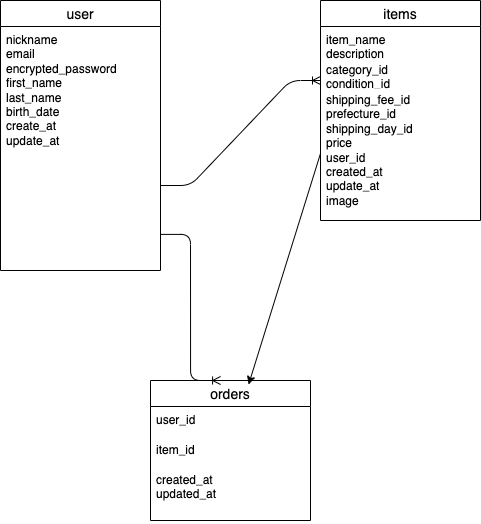
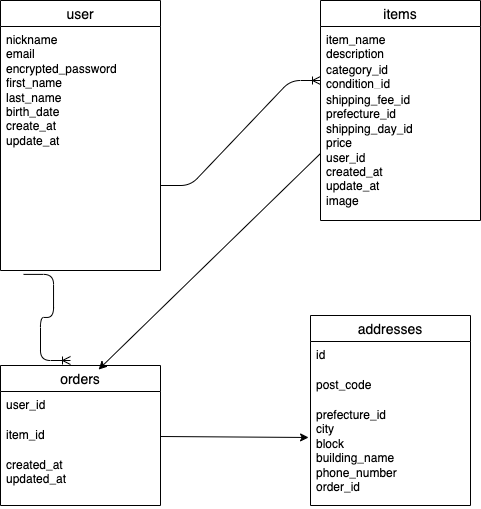
3rdcommit

diff --git a/app/controllers/application_controller.rb b/app/controllers/application_controller.rb
@@ -1,11 +1,23 @@
 class ApplicationController < ActionController::Base
-  before_action :basic_auth
+  # 開発環境とテスト環境でのみBasic認証を有効にする場合
+  # production環境でもBasic認証が必要なら if Rails.env.production? に変更
+  before_action :basic_auth if Rails.env.development? || Rails.env.test?
 
   private
 
   def basic_auth
     authenticate_or_request_with_http_basic do |username, password|
-      username == 'shiori' && password == '1234'
+      # 環境変数からユーザー名とパスワードを取得
+      username == ENV['BASIC_AUTH_USER'] && password == ENV['BASIC_AUTH_PASSWORD']
     end
+  end
+
+  # Deviseのログイン・ログアウト後のリダイレクト先 (既存のものであれば変更不要)
+  def after_sign_in_path_for(resource)
+    root_path
+  end
+
+  def after_sign_out_path_for(resource)
+    root_path
   end
 end

diff --git a/README.md b/README.md
@@ -2,69 +2,57 @@
 
 ## 概要
 フリマアプリの主要機能であるユーザー管理、商品出品、商品購入をサポートするためのデータベース設計を記述します。
+配送先情報を管理する`addresses`テーブルを追加しました。
+
+## ER図
 
 ## テーブル定義
 
 ### users テーブル
 
-| カラム名            | 型          | 制約                                 |
-| :------------------ | :---------- | :----------------------------------- |
-| `id`                | `BIGINT`    | `PRIMARY KEY`, `NOT NULL`, `AUTO_INCREMENT` |
-| `nickname`          | `VARCHAR(255)` | `NOT NULL`                           |
-| `email`             | `VARCHAR(255)` | `NOT NULL`, `UNIQUE`                 |
-| `encrypted_password` | `VARCHAR(255)` | `NOT NULL`                           |
-| `first_name`        | `VARCHAR(255)` | `NOT NULL`                           |
-| `last_name`         | `VARCHAR(255)` | `NOT NULL`                           |
-| `first_name_kana`   | `VARCHAR(255)` | `NOT NULL`                           |
-| `last_name_kana`    | `VARCHAR(255)` | `NOT NULL`                           |
-| `birth_date`        | `DATE`      | `NOT NULL`                           |
-| `created_at`        | `DATETIME`  | `NOT NULL`                           |
-| `updated_at`        | `DATETIME`  | `NOT NULL`                           |
+| カラム名            | 型       | 制約           |
+| :------------------ | :------- | :------------- |
+| `nickname`          | `string` | `null: false`  |
+| `email`             | `string` | `null: false`, `unique: true` |
+| `encrypted_password` | `string` | `null: false`  |
+| `first_name`        | `string` | `null: false`  |
+| `last_name`         | `string` | `null: false`  |
+| `first_name_kana`   | `string` | `null: false`  |
+| `last_name_kana`    | `string` | `null: false`  |
+| `birth_date`        | `date`   | `null: false`  |
 
 ### items テーブル
 
-| カラム名          | 型          | 制約                                 |
-| :---------------- | :---------- | :----------------------------------- |
-| `id`              | `BIGINT`    | `PRIMARY KEY`, `NOT NULL`, `AUTO_INCREMENT` |
-| `item_name`       | `VARCHAR(255)` | `NOT NULL`                           |
-| `description`     | `TEXT`      | `NOT NULL`                           |
-| `category_id`     | `INTEGER`   | `NOT NULL`, `FOREIGN KEY`            |
-| `condition_id`    | `INTEGER`   | `NOT NULL`, `FOREIGN KEY`            |
-| `shipping_fee_id` | `INTEGER`   | `NOT NULL`, `FOREIGN KEY`            |
-| `prefecture_id`   | `INTEGER`   | `NOT NULL`, `FOREIGN KEY`            |
-| `shipping_day_id` | `INTEGER`   | `NOT NULL`, `FOREIGN KEY`            |
-| `price`           | `INTEGER`   | `NOT NULL`, `>300, <9,999,999`      |
-| `user_id`         | `BIGINT`    | `NOT NULL`, `FOREIGN KEY`            |
-| `created_at`      | `DATETIME`  | `NOT NULL`                           |
-| `updated_at`      | `DATETIME`  | `NOT NULL`                           |
-| `image`           | (Active Storageで管理) |                              |
+| カラム名          | 型       | 制約           |
+| :---------------- | :------- | :------------- |
+| `item_name`       | `string` | `null: false`  |
+| `description`     | `text`   | `null: false`  |
+| `category_id`     | `integer`| `null: false`  |
+| `condition_id`    | `integer`| `null: false`  |
+| `shipping_fee_id` | `integer`| `null: false`  |
+| `prefecture_id`   | `integer`| `null: false`  |
+| `shipping_day_id` | `integer`| `null: false`  |
+| `price`           | `integer`| `null: false`  |
+| `user_id`         | `bigint` | `null: false`  |
+| `image`           | (Active Storageで管理) | |
 
 ### orders テーブル
 
-| カラム名     | 型          | 制約                                 |
-| :----------- | :---------- | :----------------------------------- |
-| `id`         | `BIGINT`    | `PRIMARY KEY`, `NOT NULL`, `AUTO_INCREMENT` |
-| `user_id`    | `BIGINT`    | `NOT NULL`, `FOREIGN KEY`            |
-| `item_id`    | `BIGINT`    | `NOT NULL`, `FOREIGN KEY`, `UNIQUE`  |
-| `created_at` | `DATETIME`  | `NOT NULL`                           |
-| `updated_at` | `DATETIME`  | `NOT NULL`                           |
+| カラム名     | 型       | 制約           |
+| :----------- | :------- | :------------- |
+| `user_id`    | `bigint` | `null: false`  |
+| `item_id`    | `bigint` | `null: false`  |
 
 ### addresses テーブル
 
-| カラム名          | 型          | 制約                                 |
-| :---------------- | :---------- | :----------------------------------- |
-| `id`              | `BIGINT`    | `PRIMARY KEY`, `NOT NULL`, `AUTO_INCREMENT` |
-| `post_code`       | `VARCHAR(255)` | `NOT NULL`                           |
-| `prefecture_id`   | `INTEGER`   | `NOT NULL`, `FOREIGN KEY`            |
-| `city`            | `VARCHAR(255)` | `NOT NULL`                           |
-| `block`           | `VARCHAR(255)` | `NOT NULL`                           |
-| `building_name`   | `VARCHAR(255)` | `NULL` (任意項目)                    |
-| `phone_number`    | `VARCHAR(255)` | `NOT NULL`                           |
-| `order_id`        | `BIGINT`    | `NOT NULL`, `FOREIGN KEY`, `UNIQUE`  |
-| `created_at`      | `DATETIME`  | `NOT NULL`                           |
-| `updated_at`      | `DATETIME`  | `NOT NULL`                           |
-
-## アソシエーション（関連性）
+| カラム名       | 型       | 制約           |
+| :------------- | :------- | :------------- |
+| `post_code`    | `string` | `null: false`  |
+| `prefecture_id`| `integer`| `null: false`  |
+| `city`         | `string` | `null: false`  |
+| `block`        | `string` | `null: false`  |
+| `building_name`| `string` |                | | `phone_number` | `string` | `null: false`  |
+| `order`        | `references` | `null: false`  | ## アソシエーション（関連性）
 
 フリマアプリのデータベースにおける主要な4つのテーブル（`users`, `items`, `orders`, `addresses`）は、以下のように関連付けられています。
 
@@ -102,7 +90,7 @@
     * **関連性**: `1対1 (One-to-One)`
     * **説明**: 一つの`購入履歴`には、一つの`配送先住所`が**紐づきます**。
 
-### 4. `addresses` テーブル (新規)
+### 4. `addresses` テーブル
 
 * **`belongs_to :order`**
     * **関連性**: `多対1 (Many-to-One)`
